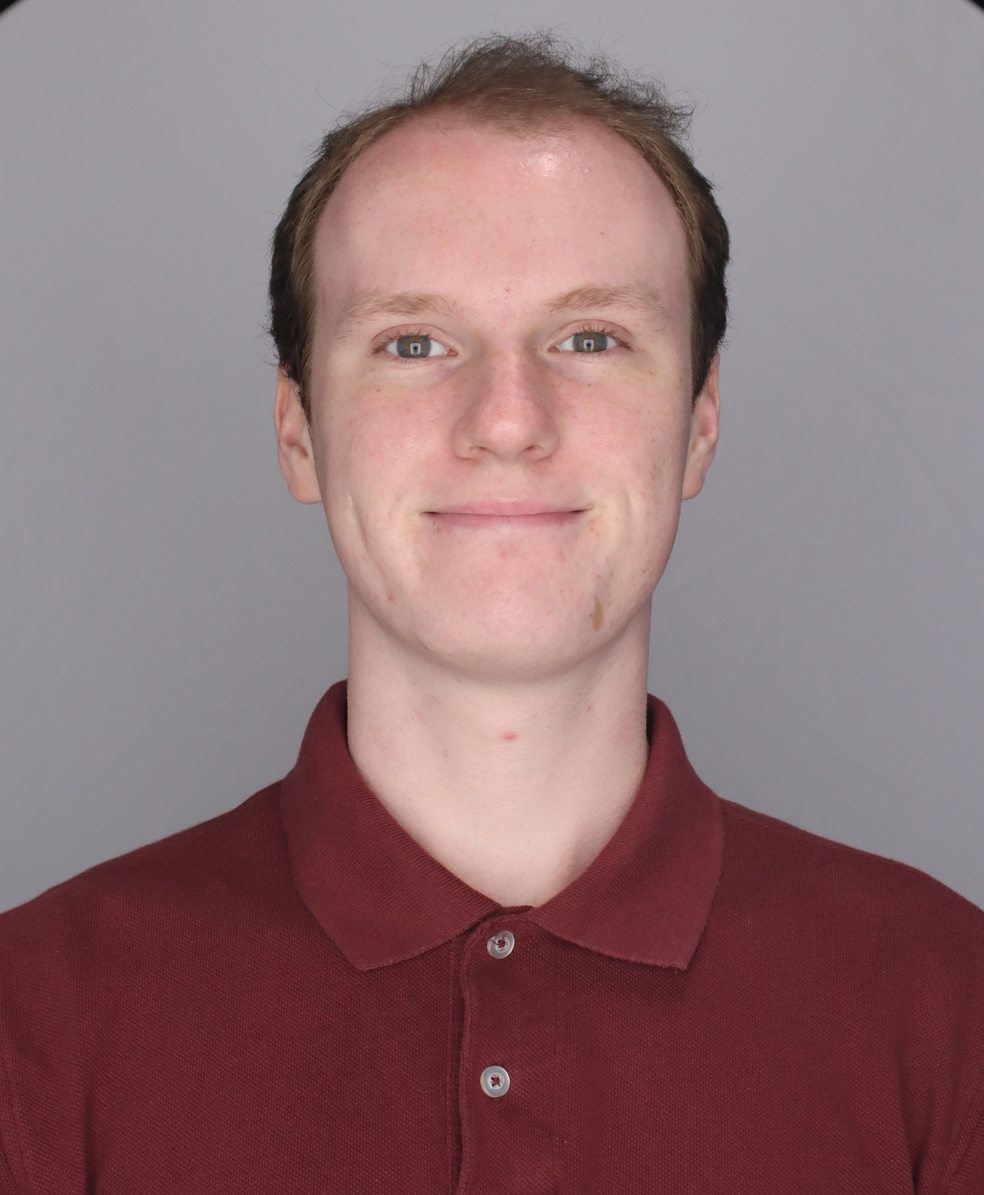
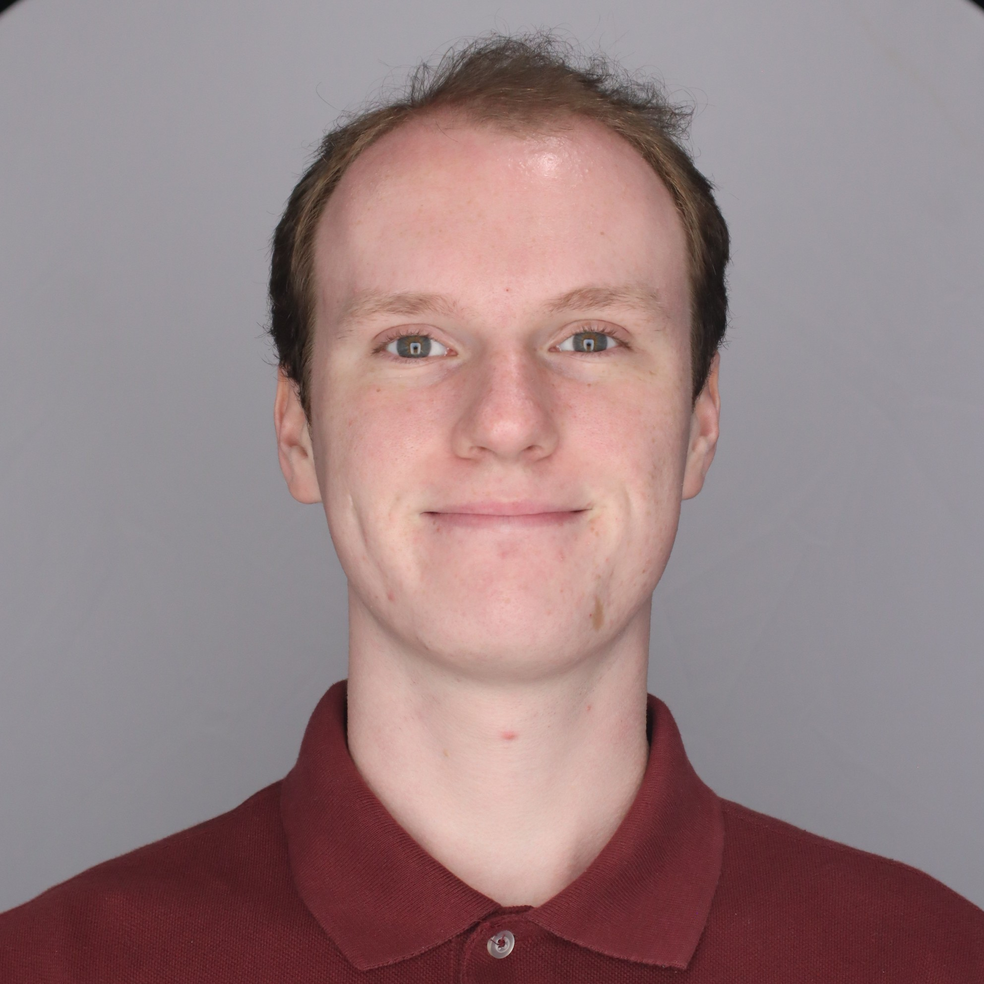
Small updates

diff --git a/weekly-log.html b/weekly-log.html
@@ -253,11 +253,7 @@
   </main>
 
   <footer class="site-footer">
-    <p>
-      The authors would like to acknowledge the use of Claude Sonnet 5, a language
-      model developed by Anthropic, in the preparation of this assignment. Claude 
-      was used in the following way in this assignment: generating a fillable website template.
-    </p>
+    <p>Team 3 &middot; Lunabotics</p>
   </footer>
 
   <div class="lightbox" id="lightbox">

diff --git a/index.html b/index.html
@@ -79,11 +79,7 @@
   </main>
 
   <footer class="site-footer">
-    <p>
-      The authors would like to acknowledge the use of Claude Sonnet 5, a language
-      model developed by Anthropic, in the preparation of this assignment. Claude 
-      was used in the following way in this assignment: generating a fillable website template.
-    </p>
+    <p>Team 3 &middot; Lunabotics</p>
   </footer>
 
 </body>
